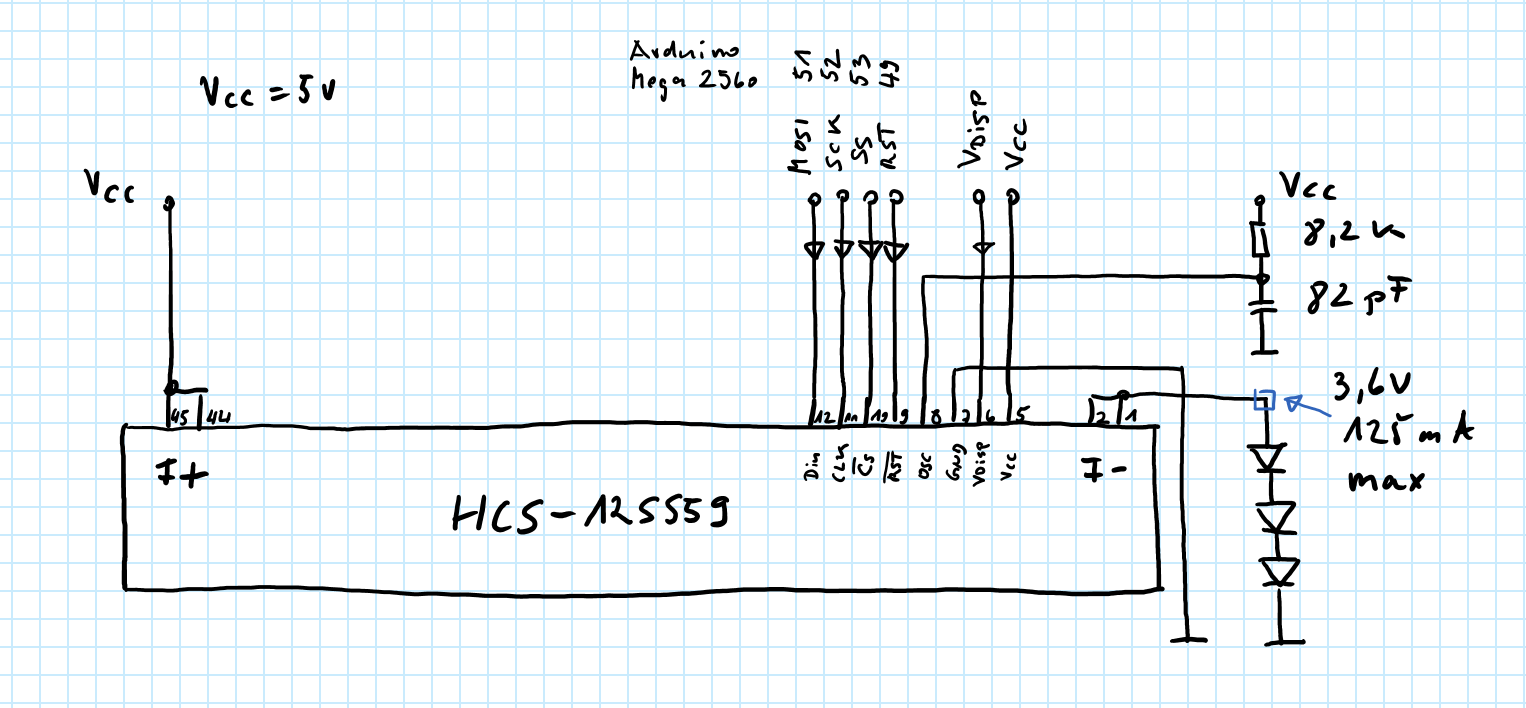
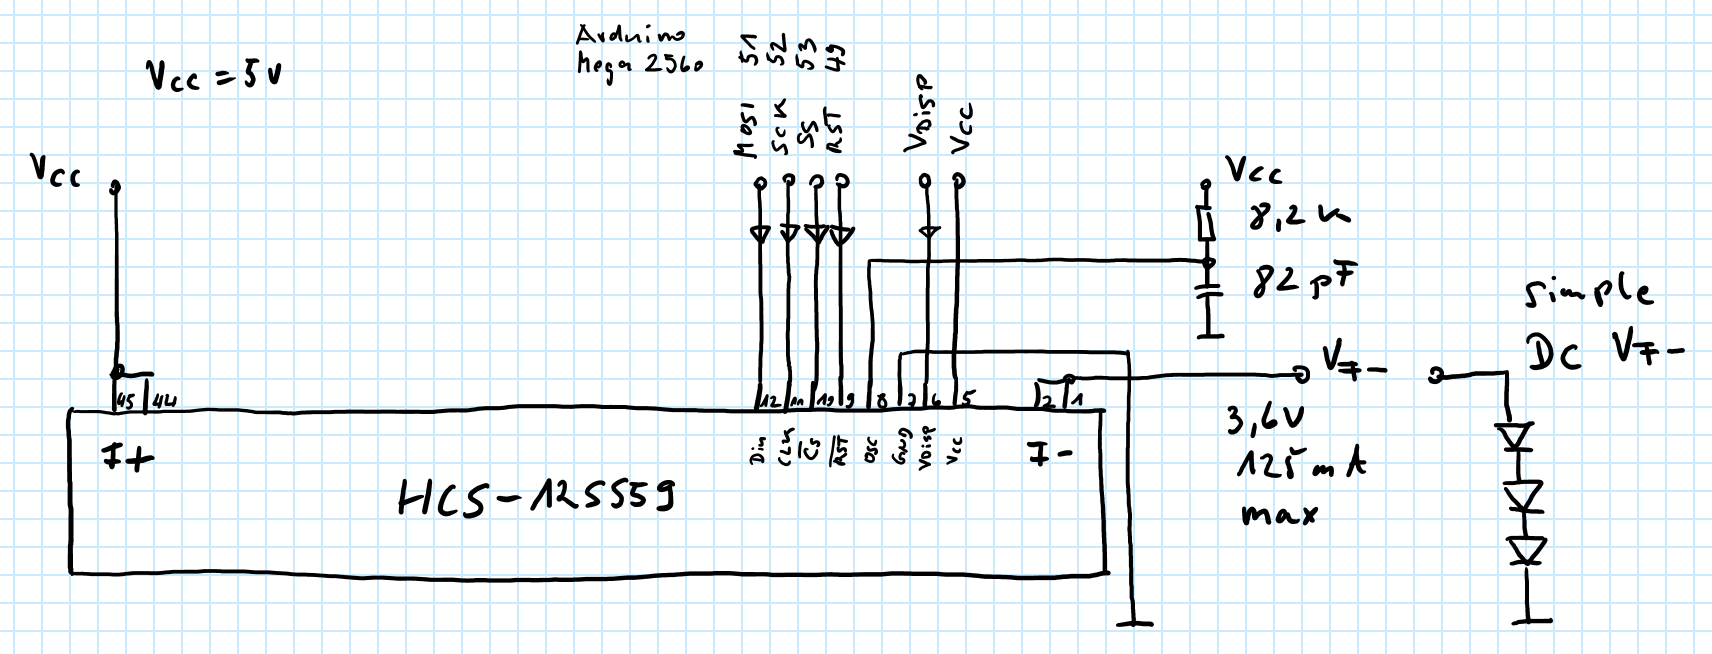
slight rework

diff --git a/README.md b/README.md
@@ -12,7 +12,7 @@ quick and simple driver and example
 ### Display
 ![display schematics](images/schematics_display.png)
 
-- mix normal and schottky diodes on F- for desired voltage
+- mix normal and schottky diodes on VF- for desired voltage
 - keeping F voltage low extends tungsten filament lifetime  
   voltages starting with 2.7 V up to 3.6 V are working  
   do not exceed 125 mA!
